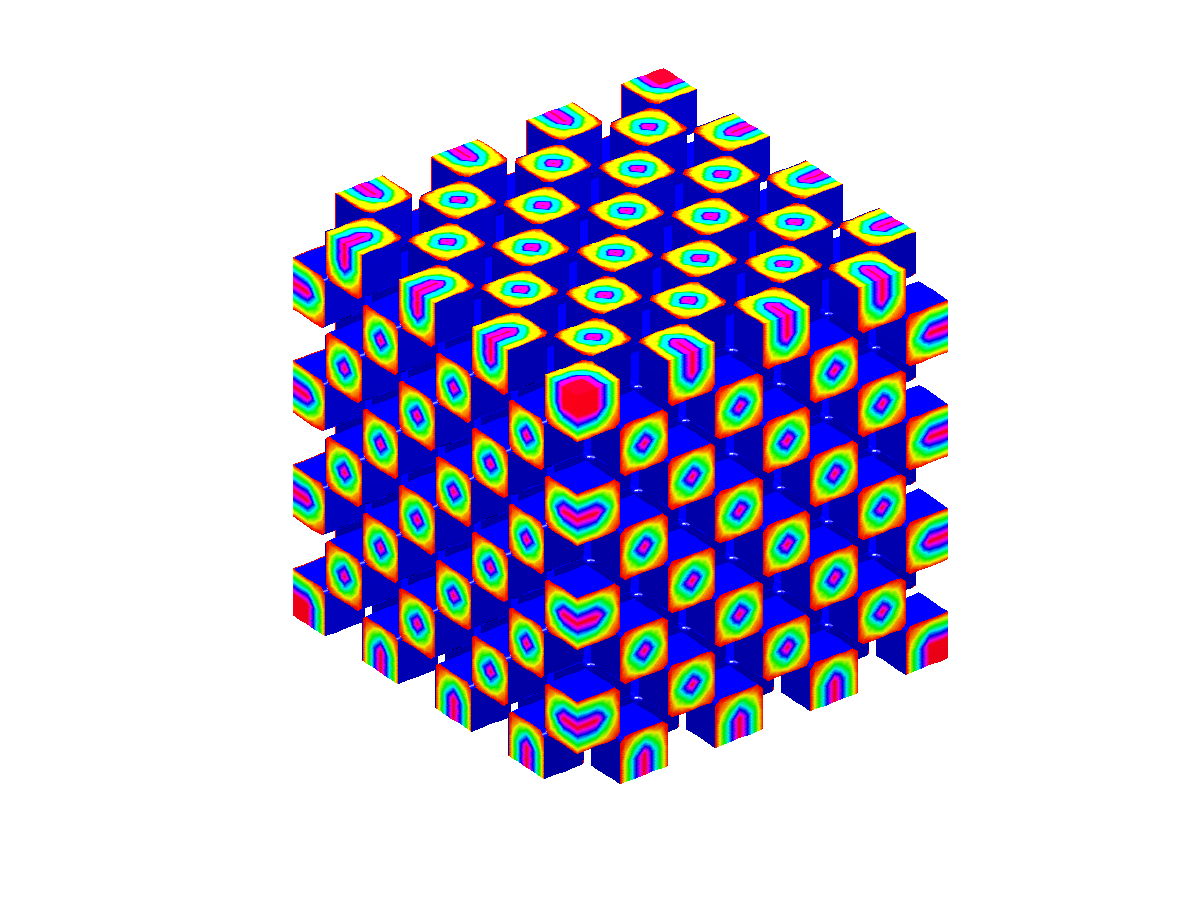
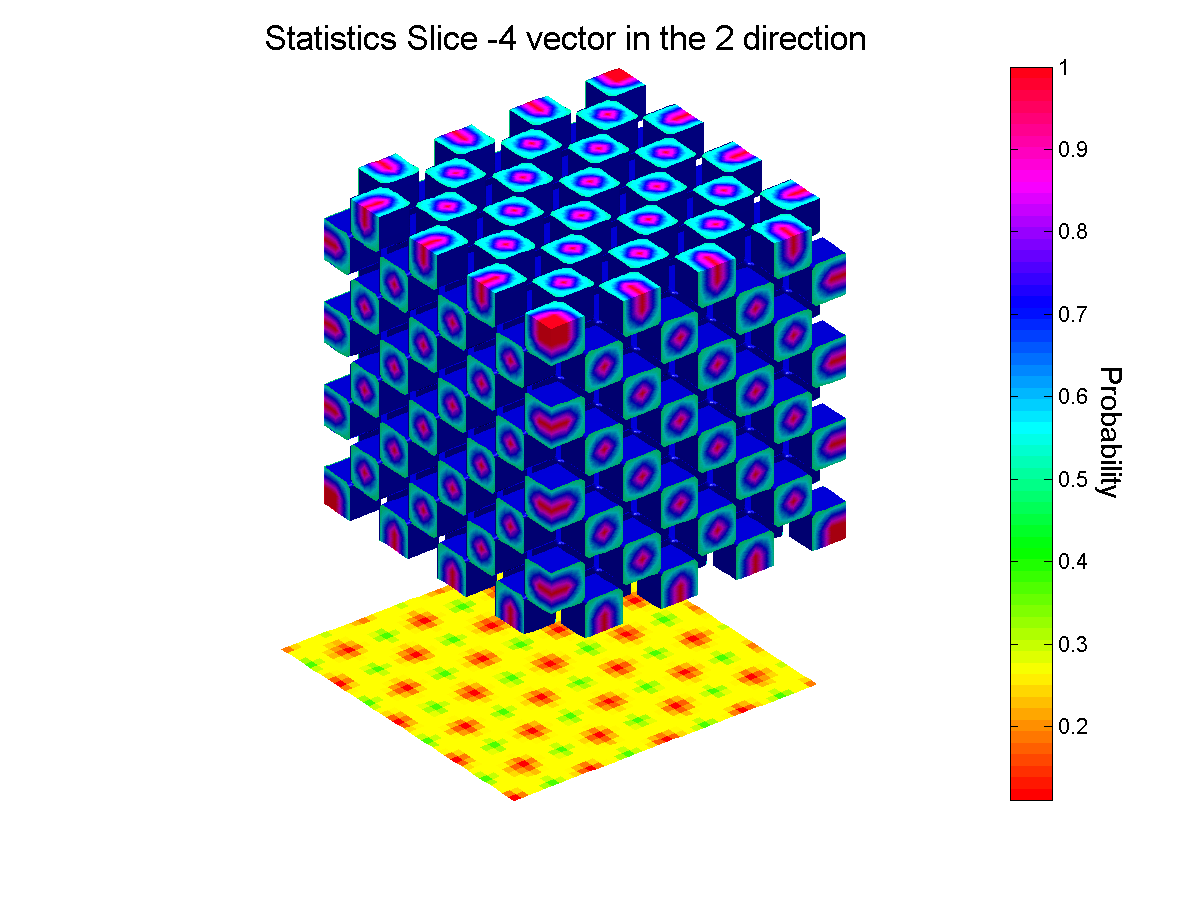
Spatial Statistics submodule added to data

diff --git a/_posts/2014-05-19-CheckerBoard-On-the-fly.html b/_posts/2014-05-19-CheckerBoard-On-the-fly.html
@@ -8,6 +8,9 @@ data:
   - Synthetic Checkerboard from checkerboard3d 
   image: 
   - checker-isocap.png 
+  - spa-stats.png 
+  url: 
+  - https://github.com/tonyfast/SpatialStatisticsFFT 
   metadata:
   - var: phase
     dims: 
@@ -17,5 +20,11 @@ data:
     type: double
   - var: volumefraction
     value: 0.500000
+  - var: stats
+    dims: 
+     - 41
+     - 41
+     - 41
+    type: double
 
 ---
